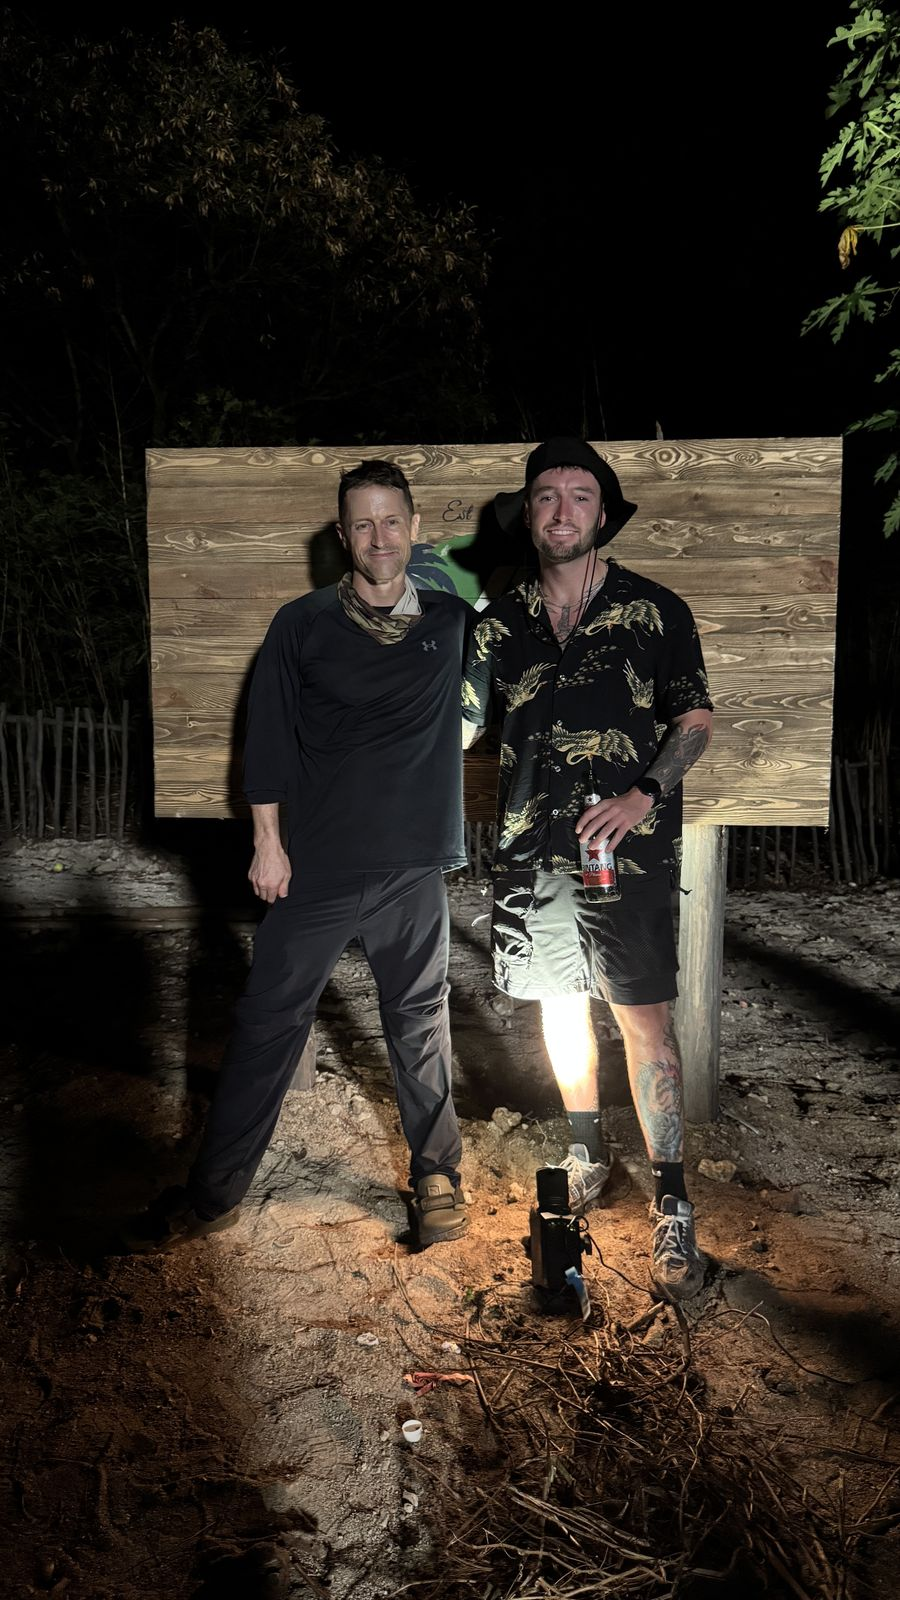
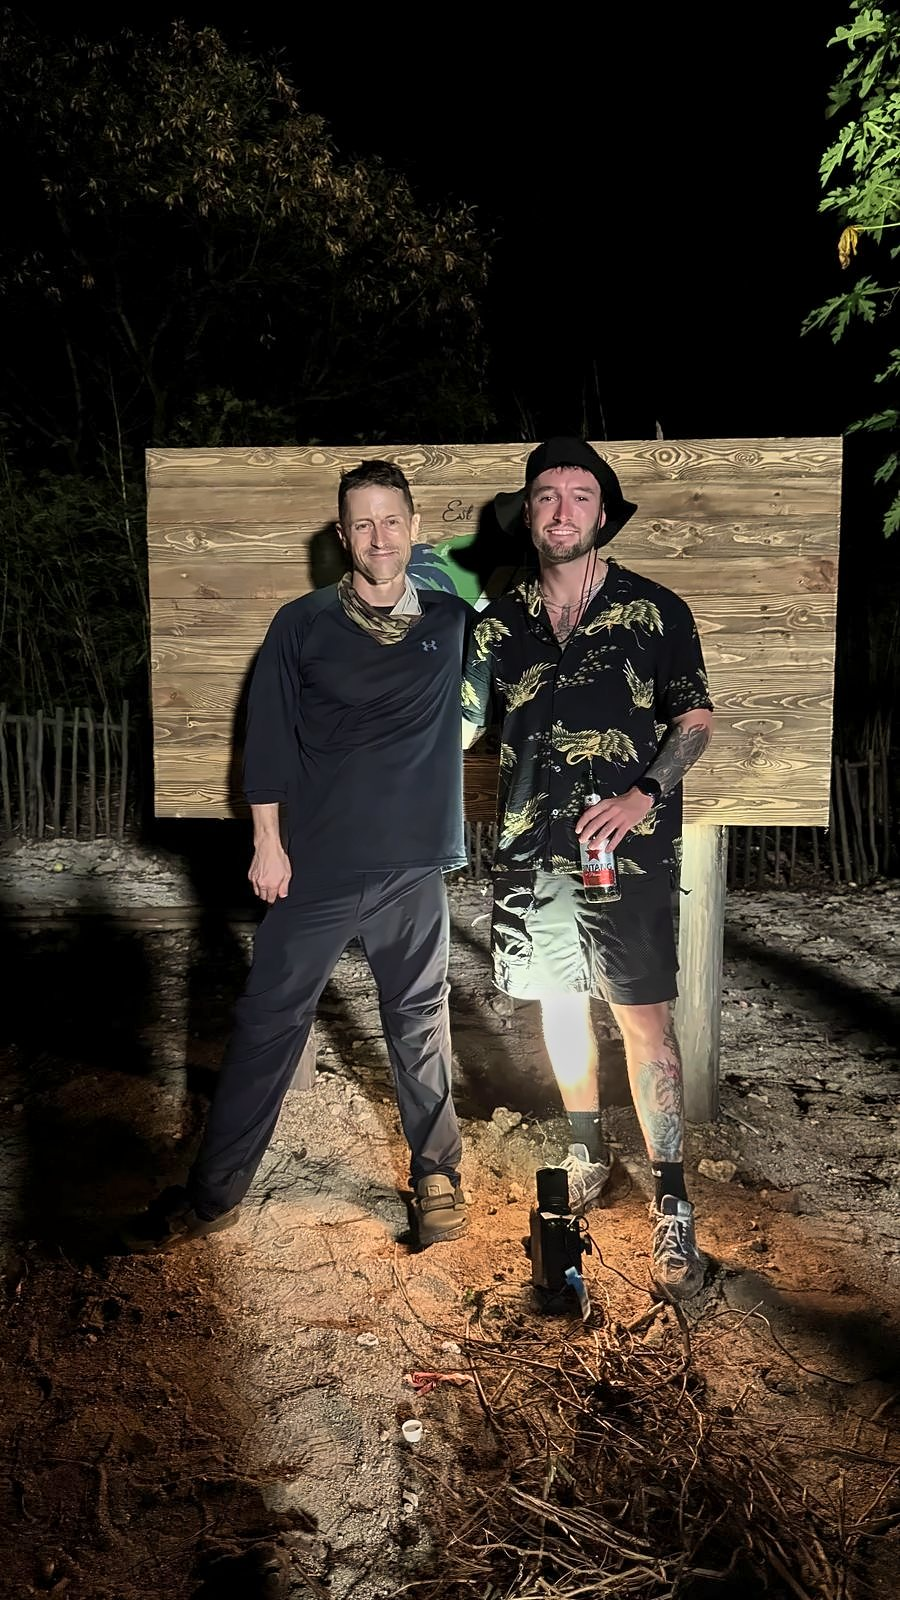
Beta Squad: the director is named on the night photo, and the photo is lifted
- Caption: 'With the director, Sam Turner, at the end of a long day and night.' (his name
  given by Ande, 21 Nov, and matched in his own mail)
- The night photo regraded from the web copy: about two thirds of a stop brighter, shadows
  opened, more colour, the lamp's hot spot held; same size and framing; still a night picture

Claude-Session: https://claude.ai/code/session_01DouhgXWTr44TL72pHyCnW9

diff --git a/beta-squad.html b/beta-squad.html
@@ -95,7 +95,7 @@
     <div class="bsq-grid">
       <figure><img src="/img/beta-squad/bts-1805-800.jpg" srcset="/img/beta-squad/bts-1805-800.jpg 800w, /img/beta-squad/bts-1805-1600.jpg 1600w" sizes="(min-width:800px) 33vw, 50vw" width="1600" height="900" loading="lazy" alt="Ande Schurr, in a camouflage hat, takes a selfie on a boat at sunset with his audio assistant Reza Feryanto behind him"><figcaption>With my assistant, Reza Feryanto, on the boat.</figcaption></figure>
       <figure><video class="bsq-loop" muted loop playsinline preload="none" poster="/img/beta-squad/bts-1756-poster.jpg" width="720" height="1280" aria-label="Storm cloud moving over a sandbar"><source src="/img/beta-squad/bts-1756.mp4" type="video/mp4"></video></figure>
-      <figure><img src="/img/beta-squad/bts-1815-800.jpg" srcset="/img/beta-squad/bts-1815-800.jpg 800w, /img/beta-squad/bts-1815-1600.jpg 1600w" sizes="(min-width:800px) 33vw, 50vw" width="900" height="1600" loading="lazy" alt="Ande Schurr and the director stand in front of a sign at night, lit from below"><figcaption>With the director, at the end of a long day and night.</figcaption></figure>
+      <figure><img src="/img/beta-squad/bts-1815-800.jpg" srcset="/img/beta-squad/bts-1815-800.jpg 800w, /img/beta-squad/bts-1815-1600.jpg 1600w" sizes="(min-width:800px) 33vw, 50vw" width="900" height="1600" loading="lazy" alt="Ande Schurr and the director, Sam Turner, stand in front of a wooden sign at night, lit from below"><figcaption>With the director, Sam Turner, at the end of a long day and night.</figcaption></figure>
       <figure><img src="/img/beta-squad/bts-1775-800.jpg" srcset="/img/beta-squad/bts-1775-800.jpg 800w, /img/beta-squad/bts-1775-1600.jpg 1600w" sizes="(min-width:800px) 33vw, 50vw" width="1600" height="900" loading="lazy" alt="The sun low over the sea in an orange sky"></figure>
       <figure><img src="/img/beta-squad/bts-1812-800.jpg" srcset="/img/beta-squad/bts-1812-800.jpg 800w, /img/beta-squad/bts-1812-1600.jpg 1600w" sizes="(min-width:800px) 33vw, 50vw" width="900" height="1600" loading="lazy" alt="Coiled lavalier microphone cables on a Wisycom pouch"><figcaption>Lavalier cables, back from the island.</figcaption></figure>
       <figure><video class="bsq-loop" muted loop playsinline preload="none" poster="/img/beta-squad/bts-1784-poster.jpg" width="720" height="1280" aria-label="Two fishermen in silhouette on a sandbar at dusk"><source src="/img/beta-squad/bts-1784.mp4" type="video/mp4"></video></figure>
